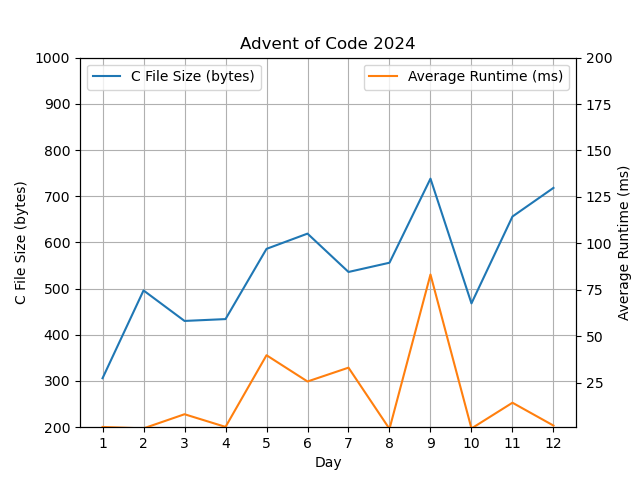
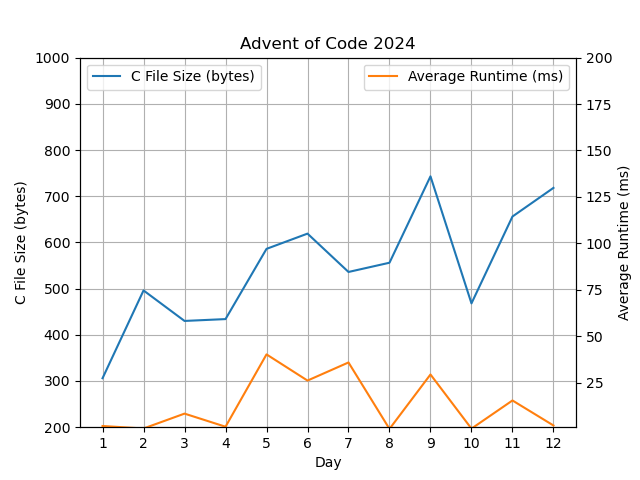
add an optimisation to d09 spotted by dzaima

diff --git a/d09.c b/d09.c
@@ -1,10 +1,9 @@
-#include "a.h" // 6344673854800 6360363199987
+#include "a.h" // 6344673854800 6360363199987 / O(n) spotted by @dzaima
 #define P 19999
-#define U I(e[++j], B) /* Manual Unroll */
-V p2(T * e, I sz)_(Fid(sz, I(e[i] && i, I n = e[i], need = 1, has;
-  W (e[--i] == n && i, need++); Fj(i, W(j < i && e[j++]); I(!e[--j],
-    has = j; W(1, U U U U) I(need <= j - has,
-      F$(j = has - 1, need--, e[i] = 0, e[++j] = e[++i]) B))) i++)))
+V p2(T * e, I sz)_(I s = 0; Fid(sz, I(e[i] && i, I n = e[i], need = 1, has;
+  W (e[--i] == n && i, need++); C f=1; F_(j,s,i, I(!e[j], I(f, s=j; f=0)
+    has = j; W(!e[++j]) has = j - has; I(need <= has,
+      F$(j -= has + 1, need--, e[i] = 0, e[++j] = e[++i]) B))) i++)))
 V p1(T * e, I sz)_(I j = --sz; Fi(j, I(!e[i], W(!e[j--]) SWAP(e[i], e[j+1]))))
 M(C * c = slurp("d09.txt"); I ns = Fisum(P, 0, c[i] - '0');
   T e[2][P*5]; ZM(e); I j = 1, k = 0; L s[2];
